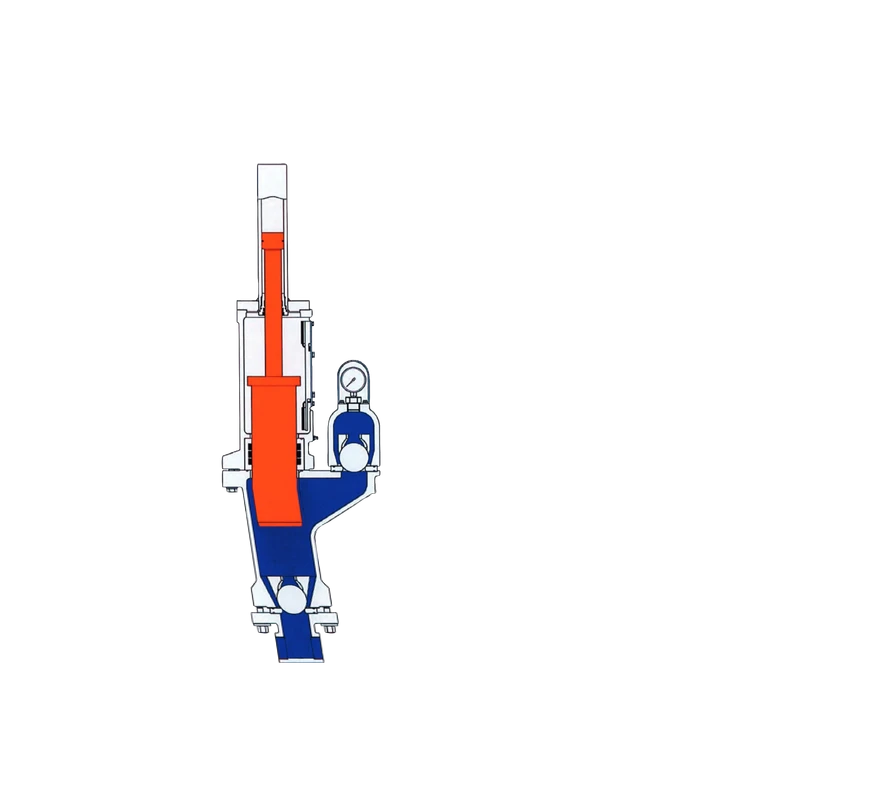
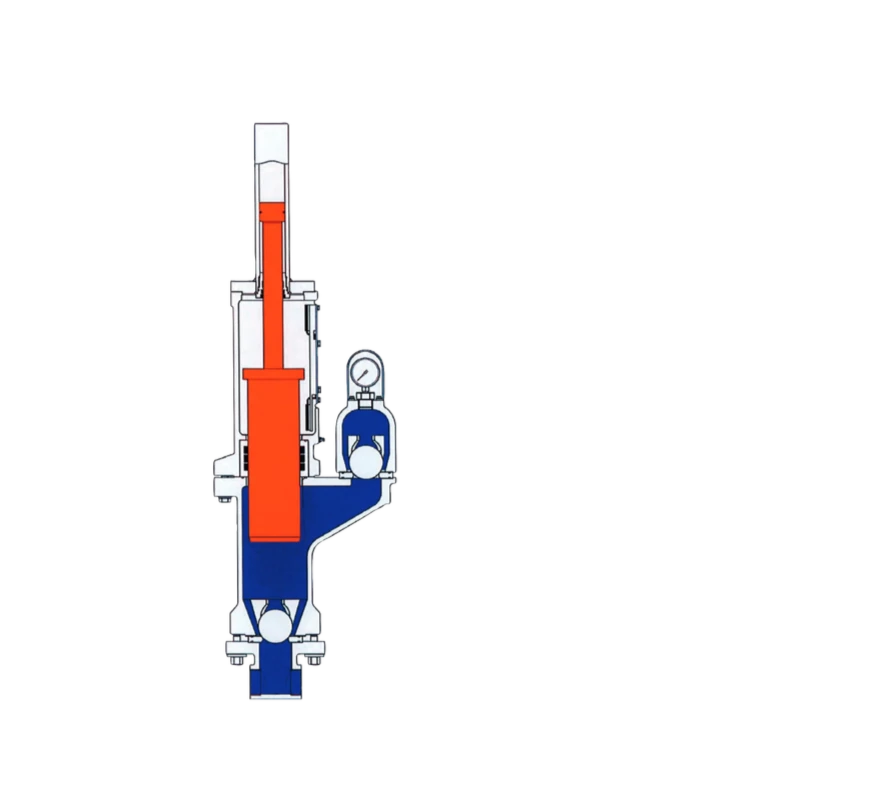
Alignment app: matrix transform for the x-ray overlay (move, scale across and up/down, rotate, skew) instead of lean; placement as saved in the app

Changed region(s): [[0.2416, 0.1527, 0.453, 0.916]]

diff --git a/tools/fx-align.html b/tools/fx-align.html
@@ -67,21 +67,25 @@
 <main id="xray" class="hide">
   <div>
     <div class="panel">
-      <h2>Move the mirrored cutaway over the ZMP 610 (left pump)</h2>
-      <p class="muted">Drag on the picture to move it, mouse wheel to scale, arrow keys to nudge (Shift = 5 px). Use <b>lean</b> and <b>lean starts at</b> to bend the lower part of the pump (it is seen from an angle in the photo). Match the pressure gauge, the outlet on the right, the ball valves and the inlet at the bottom.</p>
+      <h2>Move, scale and rotate the mirrored cutaway over the ZMP 610 (left pump)</h2>
+      <p class="muted"><b>Drag</b> the picture to move it. <b>Mouse wheel</b> scales it, <b>Shift + wheel</b> rotates it, <b>arrow keys</b> nudge it (Shift = 5 px), <b>Q / E</b> rotate by 0.1°. The sliders on the right set the exact numbers: scale across and up/down separately, rotation, and skew. Match the pressure gauge, the outlet on the right, the ball valves and the inlet at the bottom.</p>
       <div class="stage crosshair" id="xstage"></div>
     </div>
   </div>
   <div class="panel">
-    <h2>Placement</h2>
+    <h2>Transform</h2>
     <div class="num"><label>Opacity</label><input type="range" id="c-op" min="0" max="1" step="0.01" value="0.55"><input type="text" id="n-op" readonly></div>
-    <div class="num"><label>Scale</label><input type="range" id="c-scale" min="0.15" max="0.6" step="0.001"><input type="number" id="n-scale" step="0.001"></div>
-    <div class="num"><label>Left (px)</label><input type="range" id="c-left" min="-100" max="600" step="0.5"><input type="number" id="n-left" step="0.5"></div>
-    <div class="num"><label>Top (px)</label><input type="range" id="c-top" min="-300" max="500" step="0.5"><input type="number" id="n-top" step="0.5"></div>
-    <div class="num"><label>Lean</label><input type="range" id="c-shear" min="-0.3" max="0.5" step="0.002"><input type="number" id="n-shear" step="0.002"></div>
-    <div class="num"><label>Lean starts at</label><input type="range" id="c-splitY" min="0" max="1548" step="1"><input type="number" id="n-splitY" step="1"></div>
+    <div class="num"><label>Center X (px)</label><input type="range" id="c-x" min="-100" max="1000" step="0.5"><input type="number" id="n-x" step="0.5"></div>
+    <div class="num"><label>Center Y (px)</label><input type="range" id="c-y" min="-200" max="1000" step="0.5"><input type="number" id="n-y" step="0.5"></div>
+    <div class="num"><label>Scale across</label><input type="range" id="c-scaleX" min="0.15" max="0.7" step="0.001"><input type="number" id="n-scaleX" step="0.001"></div>
+    <div class="num"><label>Scale up/down</label><input type="range" id="c-scaleY" min="0.15" max="0.7" step="0.001"><input type="number" id="n-scaleY" step="0.001"></div>
+    <p style="margin:.1rem 0 .4rem"><label><input type="checkbox" id="lock" checked> Keep the proportions (scale across and up/down together)</label></p>
+    <div class="num"><label>Rotate (°)</label><input type="range" id="c-rotate" min="-30" max="30" step="0.05"><input type="number" id="n-rotate" step="0.05"></div>
+    <div class="num"><label>Skew across (°)</label><input type="range" id="c-skewX" min="-30" max="30" step="0.05"><input type="number" id="n-skewX" step="0.05"></div>
+    <div class="num"><label>Skew up/down (°)</label><input type="range" id="c-skewY" min="-30" max="30" step="0.05"><input type="number" id="n-skewY" step="0.05"></div>
+    <p class="muted" style="margin:.2rem 0 .5rem">Rotation and skew turn around the middle of the cutaway. Skew across leans the top against the bottom, skew up/down leans the left against the right.</p>
     <p><label><input type="checkbox" id="lens"> Try the round lens (as on the site)</label></p>
-    <p><button class="btn primary" id="save-xray">Save and make the picture</button> <button class="btn small" id="reset">Back to saved</button></p>
+    <p><button class="btn primary" id="save-xray">Save and make the picture</button> <button class="btn small" id="reset">Back to saved</button> <button class="btn small" id="zero">Reset rotation and skew</button></p>
     <div id="status-xray" class="muted"></div>
   </div>
 </main>
@@ -154,13 +158,15 @@ $("#save-dots").onclick = async () => {
 const DISP = 700;
 let P = null, f = 1;
 const stage = $("#xstage");
+const KEYS = ["x", "y", "scaleX", "scaleY", "rotate", "skewX", "skewY"];
+const clampN = (v, lo, hi) => Math.min(hi, Math.max(lo, v));
+const round = (v, n) => Math.round(v * n) / n;
 function drawX() {
-  const { base, cut } = S, sw = cut.width * P.scale * f, sh = cut.height * P.scale * f, yh = Math.max(0, Math.min(sh, P.splitY * P.scale * f));
-  const common = `left:${P.left * f}px;top:${P.top * f}px;width:${sw}px;height:${sh}px;opacity:${$("#c-op").value}`;
-  stage.querySelector(".ovwrap").innerHTML =
-    `<img src="/cutout.png" style="${common};clip-path:inset(0 0 ${sh - yh}px 0)">` +
-    `<img src="/cutout.png" style="${common};clip-path:inset(${yh}px 0 0 0);transform-origin:0 ${yh}px;transform:skewX(${Math.atan(P.shear)}rad)">`;
-  for (const k of ["scale", "left", "top", "shear", "splitY"]) { $("#c-" + k).value = P[k]; $("#n-" + k).value = k === "scale" || k === "shear" ? (+P[k]).toFixed(3) : Math.round(P[k] * 10) / 10; }
+  const { cut } = S;
+  // the same transform as the picture is made with: M = Rotate · SkewX · SkewY · Scale around the middle of the drawing
+  const img = `<img src="/cutout.png" style="left:${P.x * f - cut.width / 2}px;top:${P.y * f - cut.height / 2}px;width:${cut.width}px;height:${cut.height}px;opacity:${$("#c-op").value};transform-origin:50% 50%;transform:rotate(${P.rotate}deg) skewX(${P.skewX}deg) skewY(${P.skewY}deg) scale(${P.scaleX * f}, ${P.scaleY * f})">`;
+  stage.querySelector(".ovwrap").innerHTML = img;
+  for (const k of KEYS) { $("#c-" + k).value = P[k]; $("#n-" + k).value = k.startsWith("scale") ? (+P[k]).toFixed(3) : k === "x" || k === "y" ? round(P[k], 10) : (+P[k]).toFixed(2); }
   $("#n-op").value = $("#c-op").value;
 }
 function initX() {
@@ -169,37 +175,46 @@ function initX() {
   stage.innerHTML = `<img src="/img/haeny-tech-plunger.webp" width="${DISP}"><div class="ovwrap"></div>`;
   P = { ...S.place }; saved = { ...S.place }; drawX();
 }
-for (const k of ["scale", "left", "top", "shear", "splitY"]) {
-  $("#c-" + k).oninput = (e) => { P[k] = +e.target.value; drawX(); };
-  $("#n-" + k).onchange = (e) => { P[k] = +e.target.value; drawX(); };
+function setP(k, v) {
+  v = +v; if (!isFinite(v)) return;
+  P[k] = v;
+  if ($("#lock").checked && (k === "scaleX" || k === "scaleY")) P[k === "scaleX" ? "scaleY" : "scaleX"] = v;
+  drawX();
 }
+for (const k of KEYS) { $("#c-" + k).oninput = (e) => setP(k, e.target.value); $("#n-" + k).onchange = (e) => setP(k, e.target.value); }
 $("#c-op").oninput = drawX;
 let mv = null;
-stage.addEventListener("pointerdown", (e) => { mv = { x: e.clientX, y: e.clientY, l: P.left, t: P.top }; stage.setPointerCapture(e.pointerId); });
+stage.addEventListener("pointerdown", (e) => { mv = { x: e.clientX, y: e.clientY, px: P.x, py: P.y }; stage.setPointerCapture(e.pointerId); });
 stage.addEventListener("pointermove", (e) => {
   const r = stage.getBoundingClientRect(); stage.style.setProperty("--mx", e.clientX - r.left + "px"); stage.style.setProperty("--my", e.clientY - r.top + "px");
-  if (!mv) return; P.left = Math.round((mv.l + (e.clientX - mv.x) / f) * 2) / 2; P.top = Math.round((mv.t + (e.clientY - mv.y) / f) * 2) / 2; drawX();
+  if (!mv) return; P.x = round(mv.px + (e.clientX - mv.x) / f, 2); P.y = round(mv.py + (e.clientY - mv.y) / f, 2); drawX();
 });
 stage.addEventListener("pointerup", () => { mv = null; });
 stage.addEventListener("wheel", (e) => {
   e.preventDefault();
-  const r = stage.getBoundingClientRect(), cx = (e.clientX - r.left) / f, cy = (e.clientY - r.top) / f, ns = Math.min(0.6, Math.max(0.15, P.scale * Math.pow(1.0015, -e.deltaY))), k = ns / P.scale;
-  P.left = Math.round((cx - (cx - P.left) * k) * 2) / 2; P.top = Math.round((cy - (cy - P.top) * k) * 2) / 2; P.scale = Math.round(ns * 1000) / 1000; drawX();
+  if (e.shiftKey) { P.rotate = round(clampN(P.rotate + (e.deltaY > 0 ? 0.1 : -0.1) * (Math.abs(e.deltaY) > 100 ? 2 : 1), -30, 30), 100); drawX(); return; }
+  // scale around the pointer: the point under the pointer stays where it is
+  const r = stage.getBoundingClientRect(), cx = (e.clientX - r.left) / f, cy = (e.clientY - r.top) / f, k = Math.pow(1.0015, -e.deltaY);
+  const sx = clampN(P.scaleX * k, 0.15, 0.7), sy = $("#lock").checked ? clampN(P.scaleY * k, 0.15, 0.7) : P.scaleY, kx = sx / P.scaleX, ky = sy / P.scaleY;
+  P.x = round(cx - (cx - P.x) * kx, 100); P.y = round(cy - (cy - P.y) * ky, 100); P.scaleX = round(sx, 1000); P.scaleY = round(sy, 1000); drawX();
 }, { passive: false });
 addEventListener("keydown", (e) => {
   if ($("#xray").classList.contains("hide") || /INPUT|SELECT|TEXTAREA/.test(document.activeElement.tagName)) return;
   const d = e.shiftKey ? 5 : 1, m = { ArrowLeft: [-d, 0], ArrowRight: [d, 0], ArrowUp: [0, -d], ArrowDown: [0, d] }[e.key];
-  if (m) { P.left += m[0]; P.top += m[1]; drawX(); e.preventDefault(); }
+  if (m) { P.x += m[0]; P.y += m[1]; drawX(); e.preventDefault(); return; }
+  if (e.key === "q" || e.key === "Q") { P.rotate = round(P.rotate - 0.1, 100); drawX(); }
+  if (e.key === "e" || e.key === "E") { P.rotate = round(P.rotate + 0.1, 100); drawX(); }
 });
 $("#lens").onchange = (e) => {
   const w = stage.querySelector(".ovwrap"), m = "radial-gradient(circle 80px at var(--mx,-999px) var(--my,-999px), #000 0, #000 78%, transparent 100%)";
   w.style.webkitMaskImage = w.style.maskImage = e.target.checked ? m : "none";
 };
 $("#reset").onclick = () => { P = { ...saved }; drawX(); };
+$("#zero").onclick = () => { P.rotate = 0; P.skewX = 0; P.skewY = 0; drawX(); };
 $("#save-xray").onclick = async () => {
   say("#status-xray", "Making the picture…");
   const r = await (await fetch("/api/xray", { method: "POST", body: JSON.stringify({ place: P }) })).json();
-  if (r.ok) { saved = { ...P }; say("#status-xray", `Saved. The lens works in x ${r.area.x}-${r.area.x + r.area.w} %, y ${r.area.y}-${r.area.y + r.area.h} %. Run the dev server or the build to see it on the site.`, "ok"); }
+  if (r.ok) { saved = { ...P }; say("#status-xray", `Saved. The lens works in x ${r.area.x}-${Math.round((r.area.x + r.area.w) * 10) / 10} %, y ${r.area.y}-${Math.round((r.area.y + r.area.h) * 10) / 10} %. Run the dev server or the build to see it on the site.`, "ok"); }
   else say("#status-xray", "Could not save: " + r.error, "bad");
 };
 
